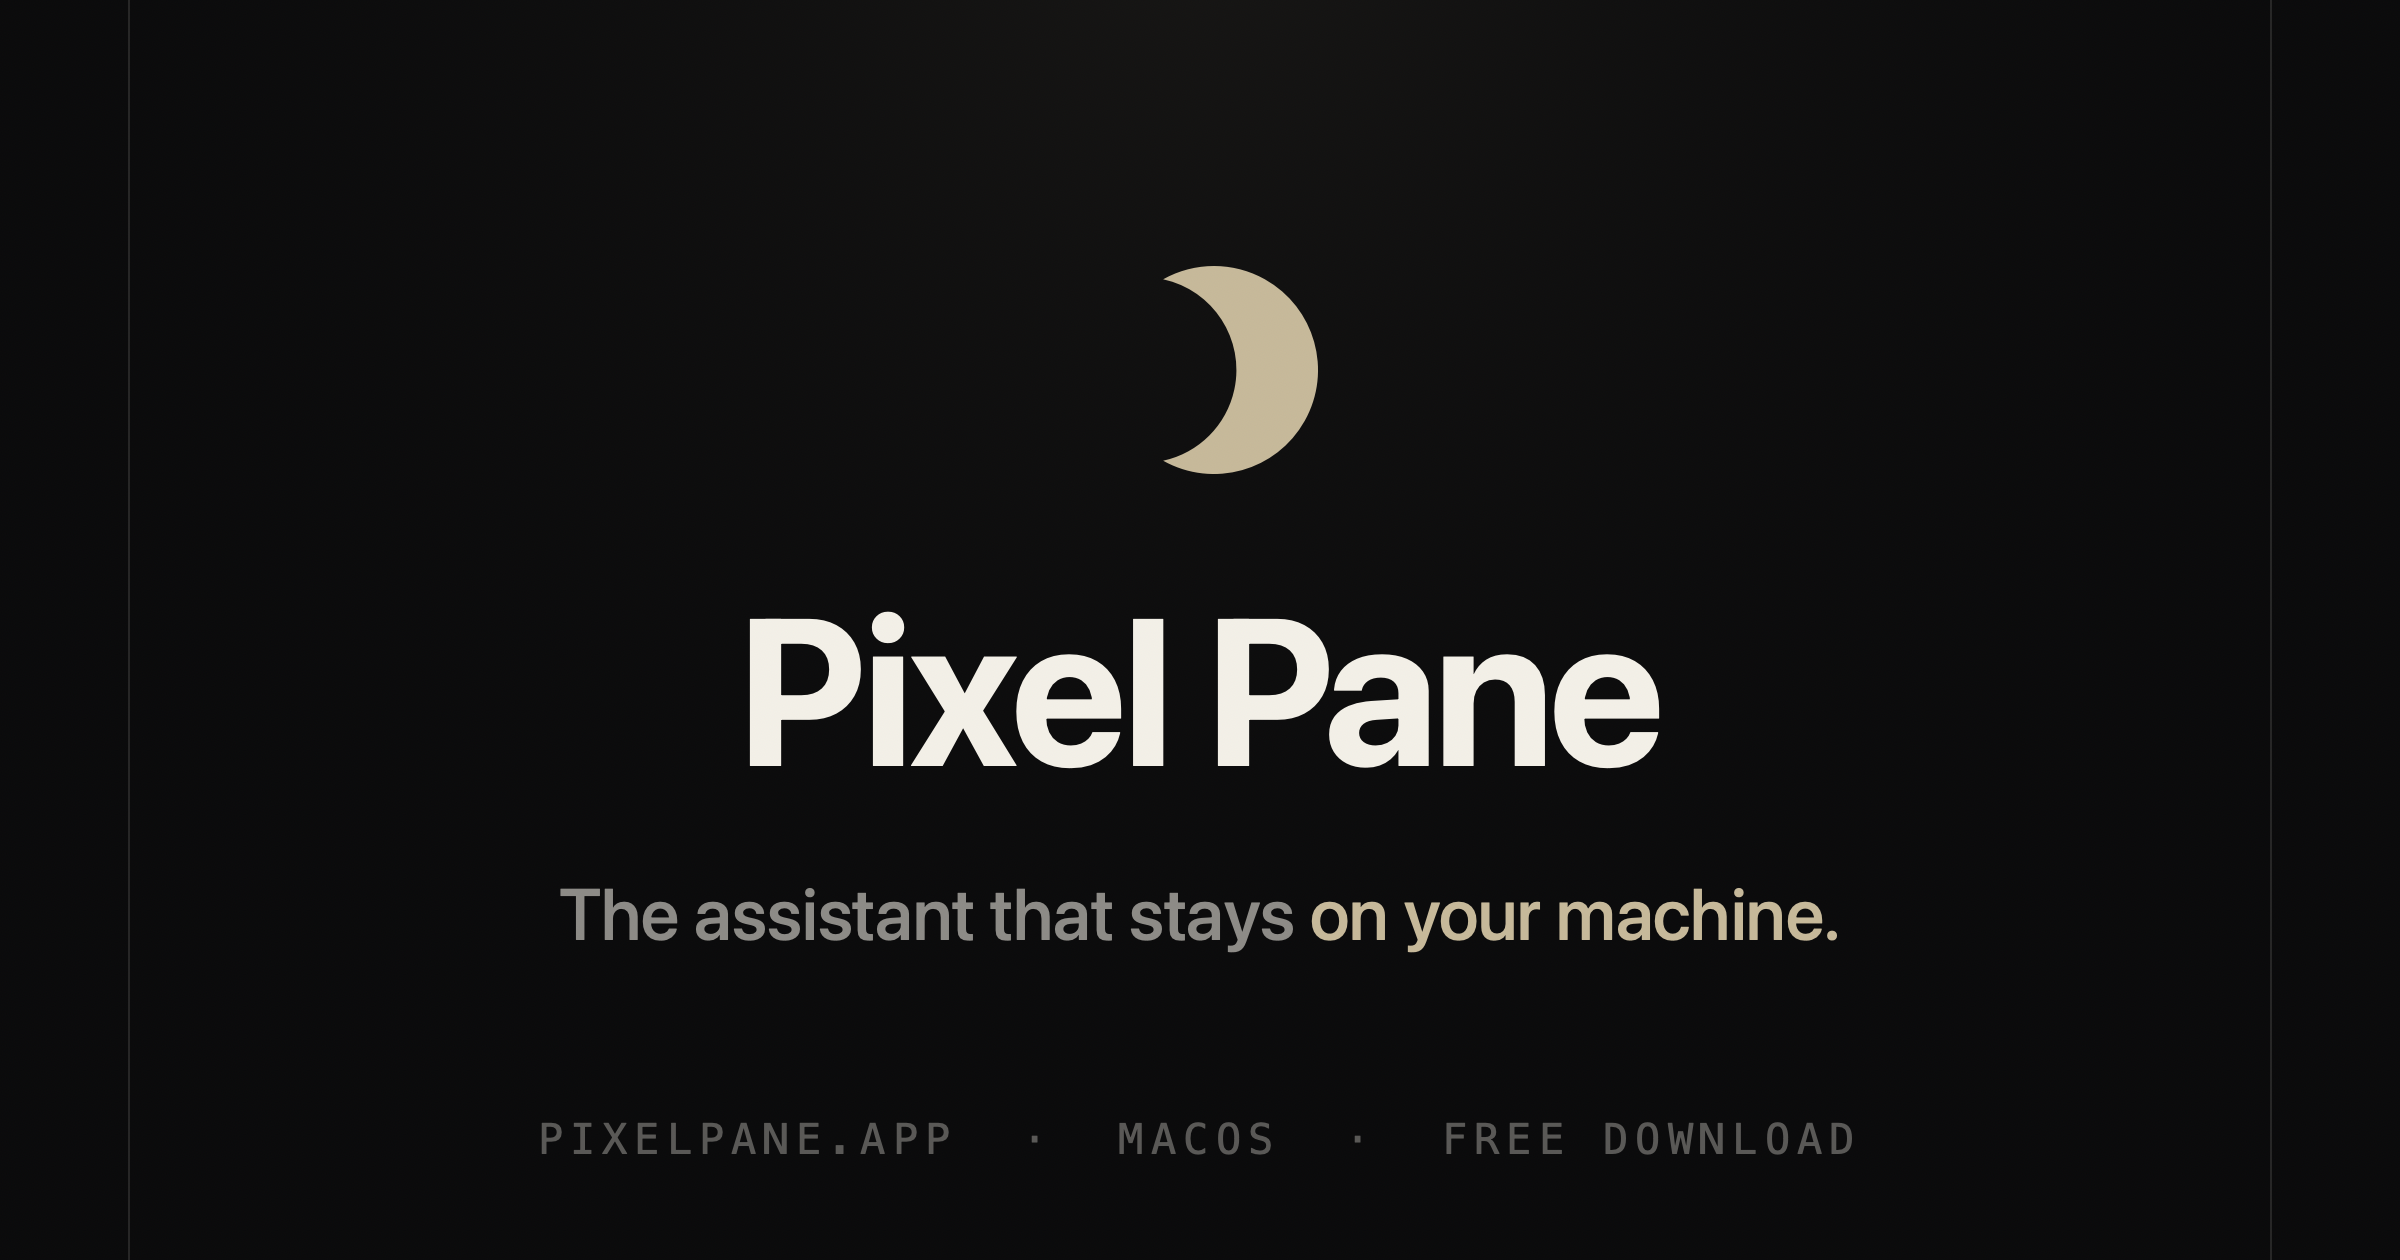
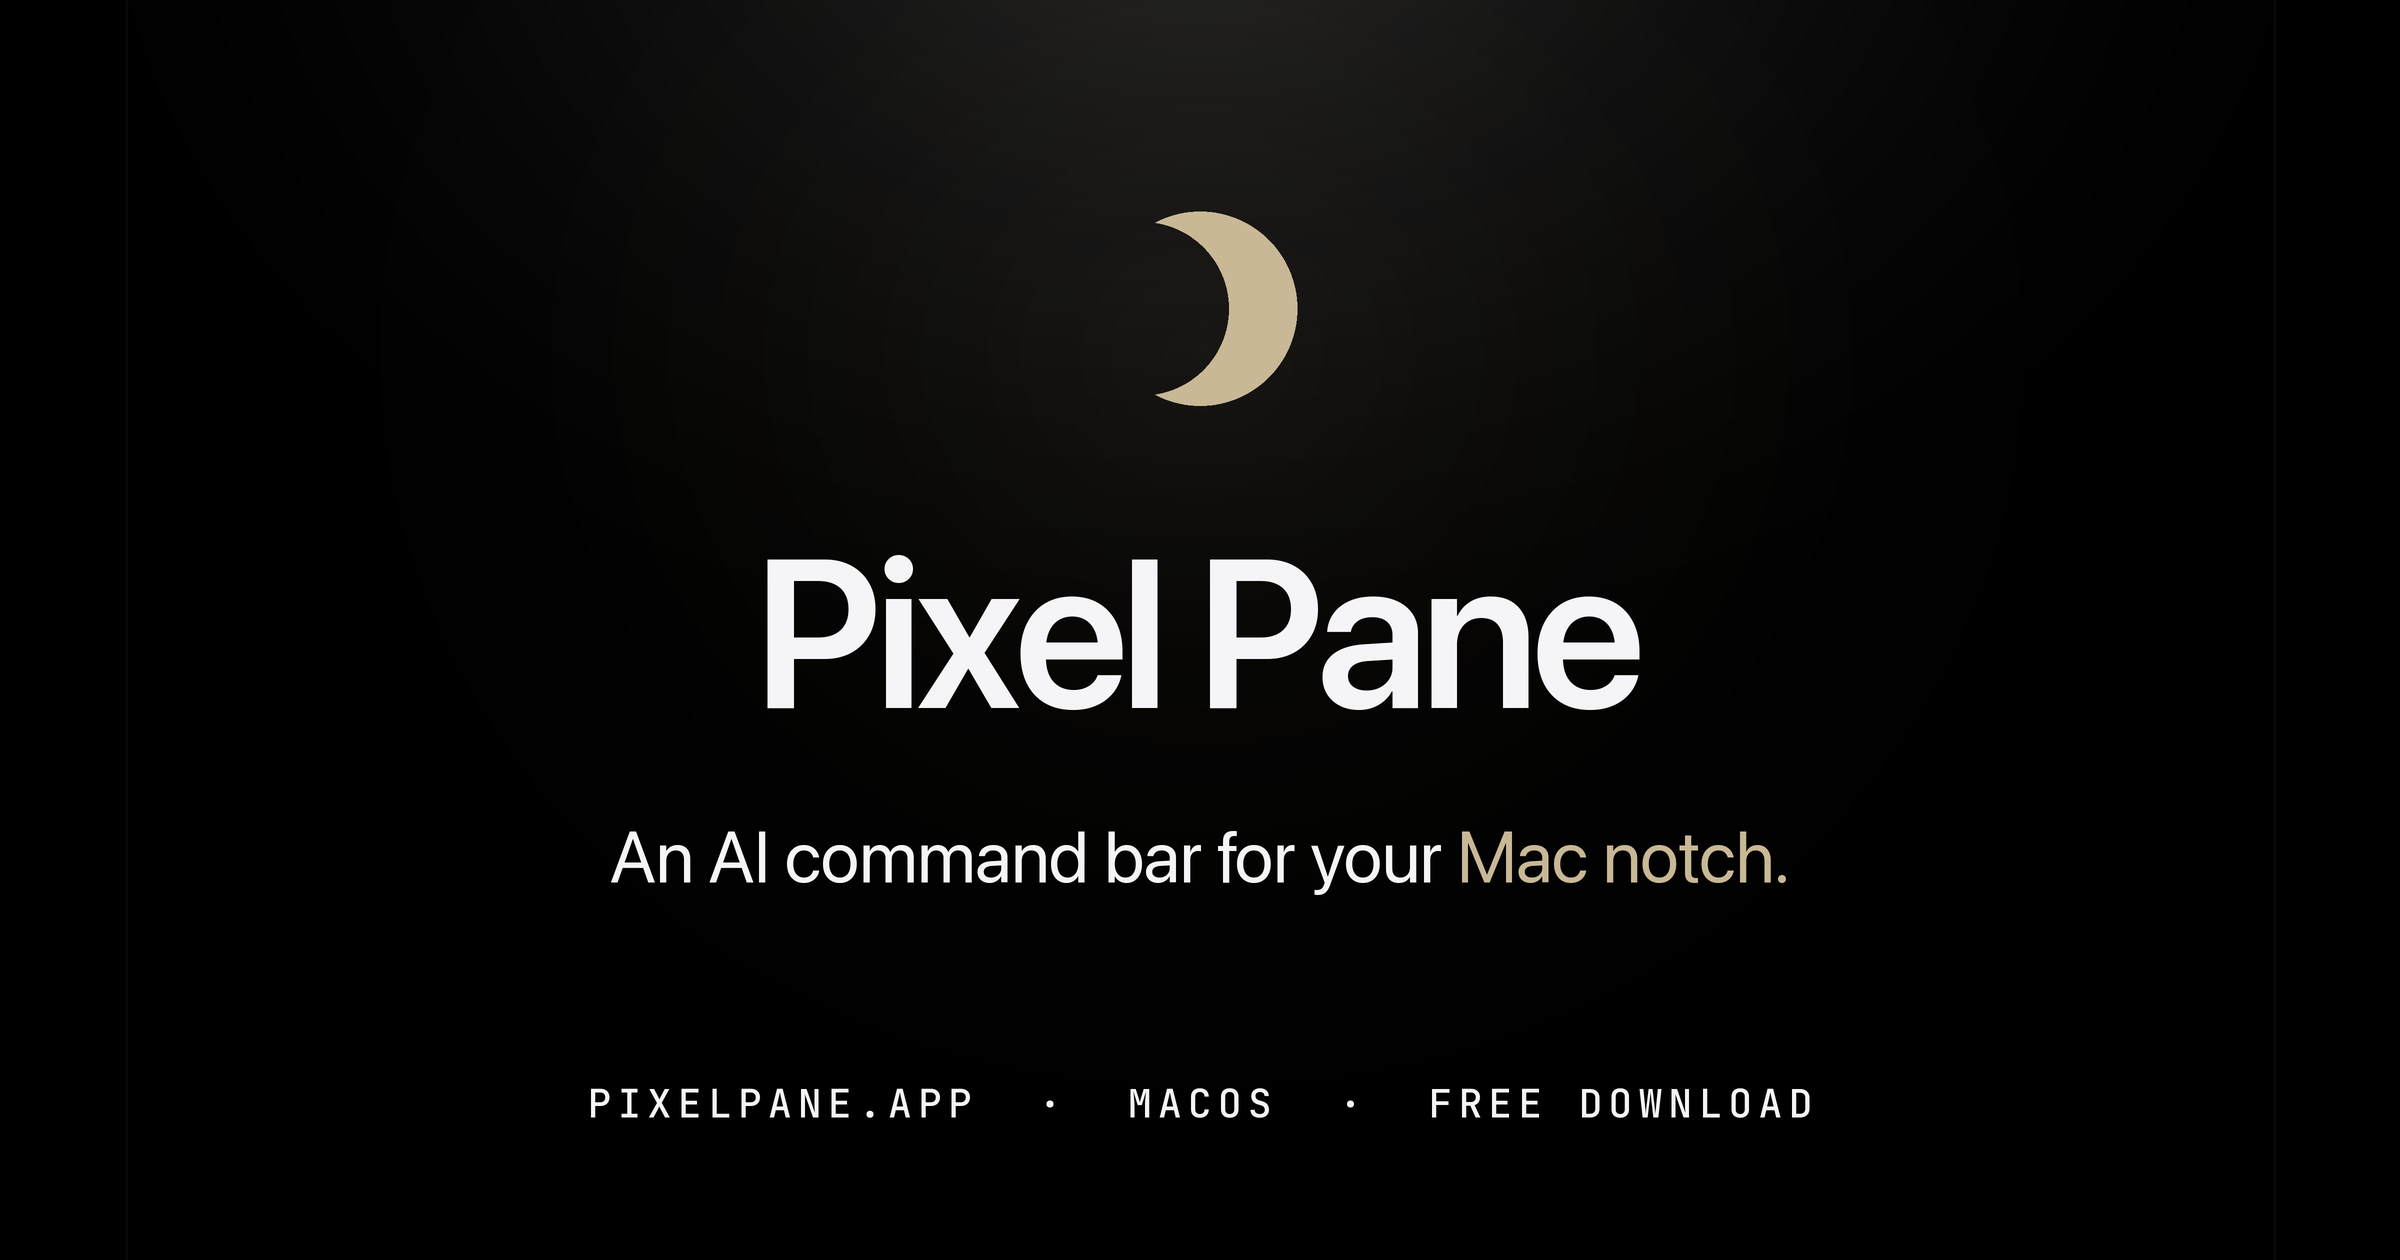
Refresh the link-preview card
The og image still carried the old "The assistant that stays on your
machine." tagline, so shared links previewed stale copy. Regenerate it
against the current hero — crescent mark, wordmark, "An AI command bar
for your Mac notch." — and bump the ?v= on og:image/twitter:image so
Slack, iMessage, and X refetch instead of serving their cached artwork.

og:description and twitter:description carried the same old copy; both
now match the hero. Add tools/make-og.py so the card can be re-rendered
from the site's own palette and fonts next time the copy moves. The new
PNG is 131 KB, down from 2.1 MB.

diff --git a/index.html b/index.html
@@ -7,16 +7,16 @@
   <meta name="description" content="Pixel Pane puts chat, terminal, files, models, sessions, and media in one Mac-native notch surface. Local by default, cloud by choice, and only active when you ask." />
 
   <meta property="og:title" content="Pixel Pane" />
-  <meta property="og:description" content="Chat, terminal, files, models, sessions, and media in your Mac notch." />
+  <meta property="og:description" content="An AI command bar for your Mac notch." />
   <meta property="og:type" content="website" />
   <meta property="og:url" content="https://pixelpane.app/" />
-  <meta property="og:image" content="https://pixelpane.app/assets/og.png?v=2" />
+  <meta property="og:image" content="https://pixelpane.app/assets/og.png?v=3" />
   <meta property="og:image:width" content="1200" />
   <meta property="og:image:height" content="630" />
   <meta name="twitter:card" content="summary_large_image" />
   <meta name="twitter:title" content="Pixel Pane" />
-  <meta name="twitter:description" content="Chat, terminal, files, models, sessions, and media in your Mac notch." />
-  <meta name="twitter:image" content="https://pixelpane.app/assets/og.png?v=2" />
+  <meta name="twitter:description" content="An AI command bar for your Mac notch." />
+  <meta name="twitter:image" content="https://pixelpane.app/assets/og.png?v=3" />
 
   <link rel="icon" href="assets/favicon.svg?v=4" type="image/svg+xml" />
   <link rel="apple-touch-icon" href="assets/app-icon.png?v=4" />

diff --git a/tools/make-og.py b/tools/make-og.py
@@ -1,0 +1,143 @@
+#!/usr/bin/env python3
+"""Render assets/og.png — the link-preview card for pixelpane.app.
+
+Mirrors the hero: crescent mark, wordmark, tagline, mono footer. Output is
+2400x1260 (2x the 1200x630 the meta tags declare). Needs Pillow and macOS
+for SF Pro; JetBrains Mono is fetched from Google Fonts and cached alongside.
+
+    python3 tools/make-og.py
+
+After regenerating, bump the ?v= on og:image and twitter:image in index.html —
+Slack, iMessage, and X cache the old artwork against the old URL.
+"""
+import math
+import os
+import re
+import sys
+import urllib.request
+from PIL import Image, ImageDraw, ImageFont
+
+W, H, SS = 2400, 1260, 2          # supersample factor for crisp vector shapes
+INK = (0, 0, 0)
+PAPER = (245, 245, 247)
+BEIGE = (201, 184, 150)           # logo-mark.svg fill
+MUTED = (245, 245, 247, 168)      # --muted, 0.66
+FAINT = (245, 245, 247, 97)       # --faint, 0.38
+
+HERE = os.path.dirname(os.path.abspath(__file__))
+ROOT = os.path.dirname(HERE)
+SF = "/System/Library/Fonts/SFNS.ttf"          # --display resolves to this on Mac
+CACHE = os.path.join(HERE, ".fonts")
+# A bare UA gets .ttf back; modern ones get .woff2, which Pillow can't read.
+GF = "https://fonts.googleapis.com/css2?family=JetBrains+Mono:wght@500"
+
+
+def mono(size):
+    ttf = os.path.join(CACHE, "JetBrainsMono-Medium.ttf")
+    if not os.path.exists(ttf):
+        os.makedirs(CACHE, exist_ok=True)
+        css = urllib.request.urlopen(
+            urllib.request.Request(GF, headers={"User-Agent": "Mozilla/5.0"})
+        ).read().decode()
+        url = re.search(r"https://\S+?\.ttf", css).group(0)
+        with open(ttf, "wb") as fh:
+            fh.write(urllib.request.urlopen(url).read())
+    return ImageFont.truetype(ttf, size)
+
+
+def sf(size, weight):
+    f = ImageFont.truetype(SF, size)
+    f.set_variation_by_name(weight)
+    return f
+
+
+def tracked(draw, xy, text, font, fill, tracking=0, anchor_center=True):
+    """Draw text with letter-spacing; returns total width."""
+    widths = [draw.textlength(c, font=font) for c in text]
+    total = sum(widths) + tracking * (len(text) - 1)
+    x, y = xy
+    if anchor_center:
+        x -= total / 2
+    for c, w in zip(text, widths):
+        draw.text((x, y), c, font=font, fill=fill)
+        x += w + tracking
+    return total
+
+
+def radial(size, cx, cy, rx, ry, rgb, peak, stop):
+    """A soft radial glow layer, matching the site's body::before gradients."""
+    w, h = size
+    layer = Image.new("L", (int(w / 8), int(h / 8)), 0)
+    px = layer.load()
+    lw, lh = layer.size
+    for yy in range(lh):
+        for xx in range(lw):
+            dx = (xx * 8 - cx) / rx
+            dy = (yy * 8 - cy) / ry
+            d = math.hypot(dx, dy)
+            if d >= stop:
+                continue
+            px[xx, yy] = int(peak * 255 * (1 - d / stop) ** 2)
+    layer = layer.resize((w, h), Image.BICUBIC)
+    tint = Image.new("RGB", (w, h), rgb)
+    return tint, layer
+
+
+def build():
+    w, h = W * SS, H * SS
+    img = Image.new("RGB", (w, h), INK)
+
+    # ambient glow — white bloom off the top edge, warm pool under the mark
+    for cx, cy, rx, ry, rgb, peak, stop in (
+        (w / 2, -0.12 * h, 0.54 * w, 0.34 * h * 2.2, PAPER, 0.16, 1.0),
+        (w / 2, 0.28 * h, 0.44 * w, 0.34 * h * 2.2, BEIGE, 0.08, 1.0),
+    ):
+        tint, mask = radial((w, h), cx, cy, rx, ry, rgb, peak, stop)
+        img.paste(tint, (0, 0), mask)
+
+    d = ImageDraw.Draw(img, "RGBA")
+
+    # structural frame lines
+    gutter = int(0.0525 * w)
+    for x in (gutter, w - gutter):
+        d.rectangle([x, 0, x + SS, h], fill=(245, 245, 247, 13))
+
+    # crescent mark — circle minus an offset circle (logo-mark.svg)
+    mark = Image.new("L", (w, h), 0)
+    md = ImageDraw.Draw(mark)
+    r = int(0.0405 * w)
+    mcx, mcy = w / 2, int(0.245 * h)
+    md.ellipse([mcx - r, mcy - r, mcx + r, mcy + r], fill=255)
+    r2 = int(r * 0.892)
+    off = int(r * 0.60)
+    md.ellipse([mcx - r2 - off, mcy - r2, mcx + r2 - off, mcy + r2], fill=0)
+    img.paste(Image.new("RGB", (w, h), BEIGE), (0, 0), mark)
+
+    # wordmark
+    tsize = int(0.088 * w)
+    title = sf(tsize, "Semibold")
+    tracked(d, (w / 2, int(0.40 * h)), "Pixel Pane", title, PAPER,
+            tracking=-0.035 * tsize)
+
+    # tagline — accent on the product noun
+    sub = sf(int(0.030 * w), "Regular")
+    head, tail = "An AI command bar for your ", "Mac notch."
+    tw = d.textlength(head, font=sub) + d.textlength(tail, font=sub)
+    x = w / 2 - tw / 2
+    y = int(0.645 * h)
+    d.text((x, y), head, font=sub, fill=MUTED)
+    d.text((x + d.textlength(head, font=sub), y), tail, font=sub, fill=BEIGE)
+
+    # mono footer
+    fsize = int(0.0165 * w)
+    foot = mono(fsize)
+    tracked(d, (w / 2, int(0.855 * h)), "PIXELPANE.APP  ·  MACOS  ·  FREE DOWNLOAD",
+            foot, FAINT, tracking=0.16 * fsize)
+
+    return img.resize((W, H), Image.LANCZOS)
+
+
+if __name__ == "__main__":
+    out = sys.argv[1] if len(sys.argv) > 1 else os.path.join(ROOT, "assets", "og.png")
+    build().save(out, optimize=True)
+    print("wrote %s (%.0f KB)" % (out, os.path.getsize(out) / 1024))
